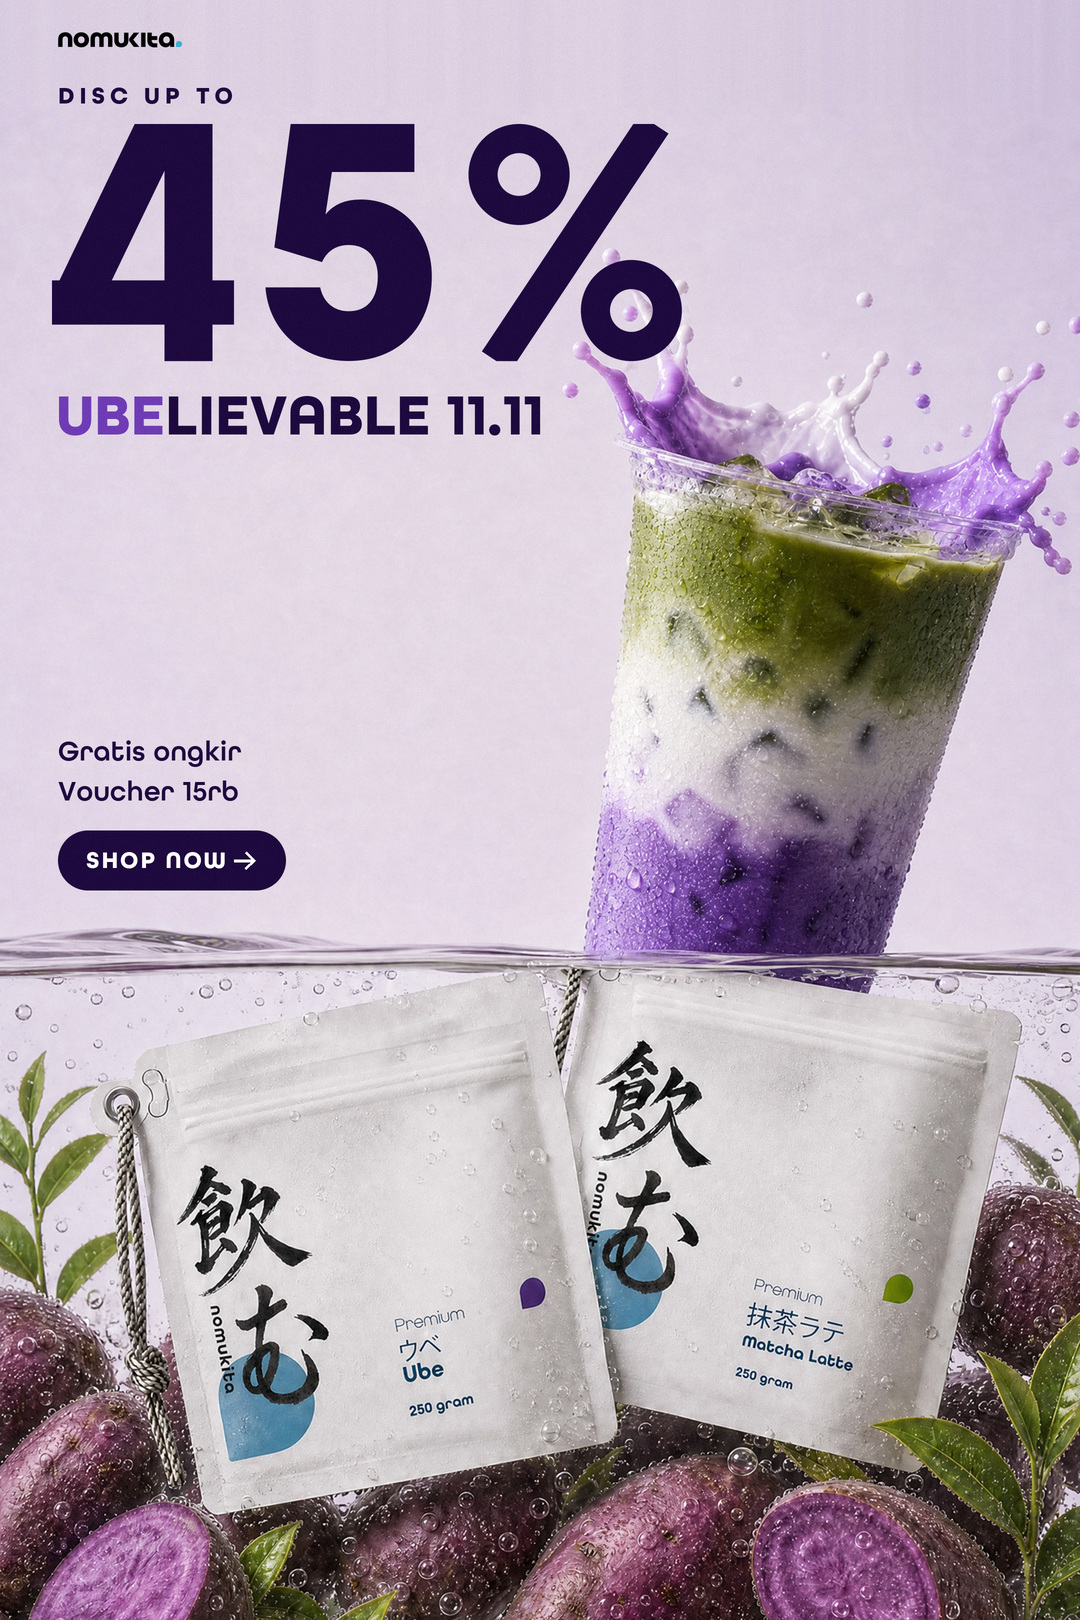
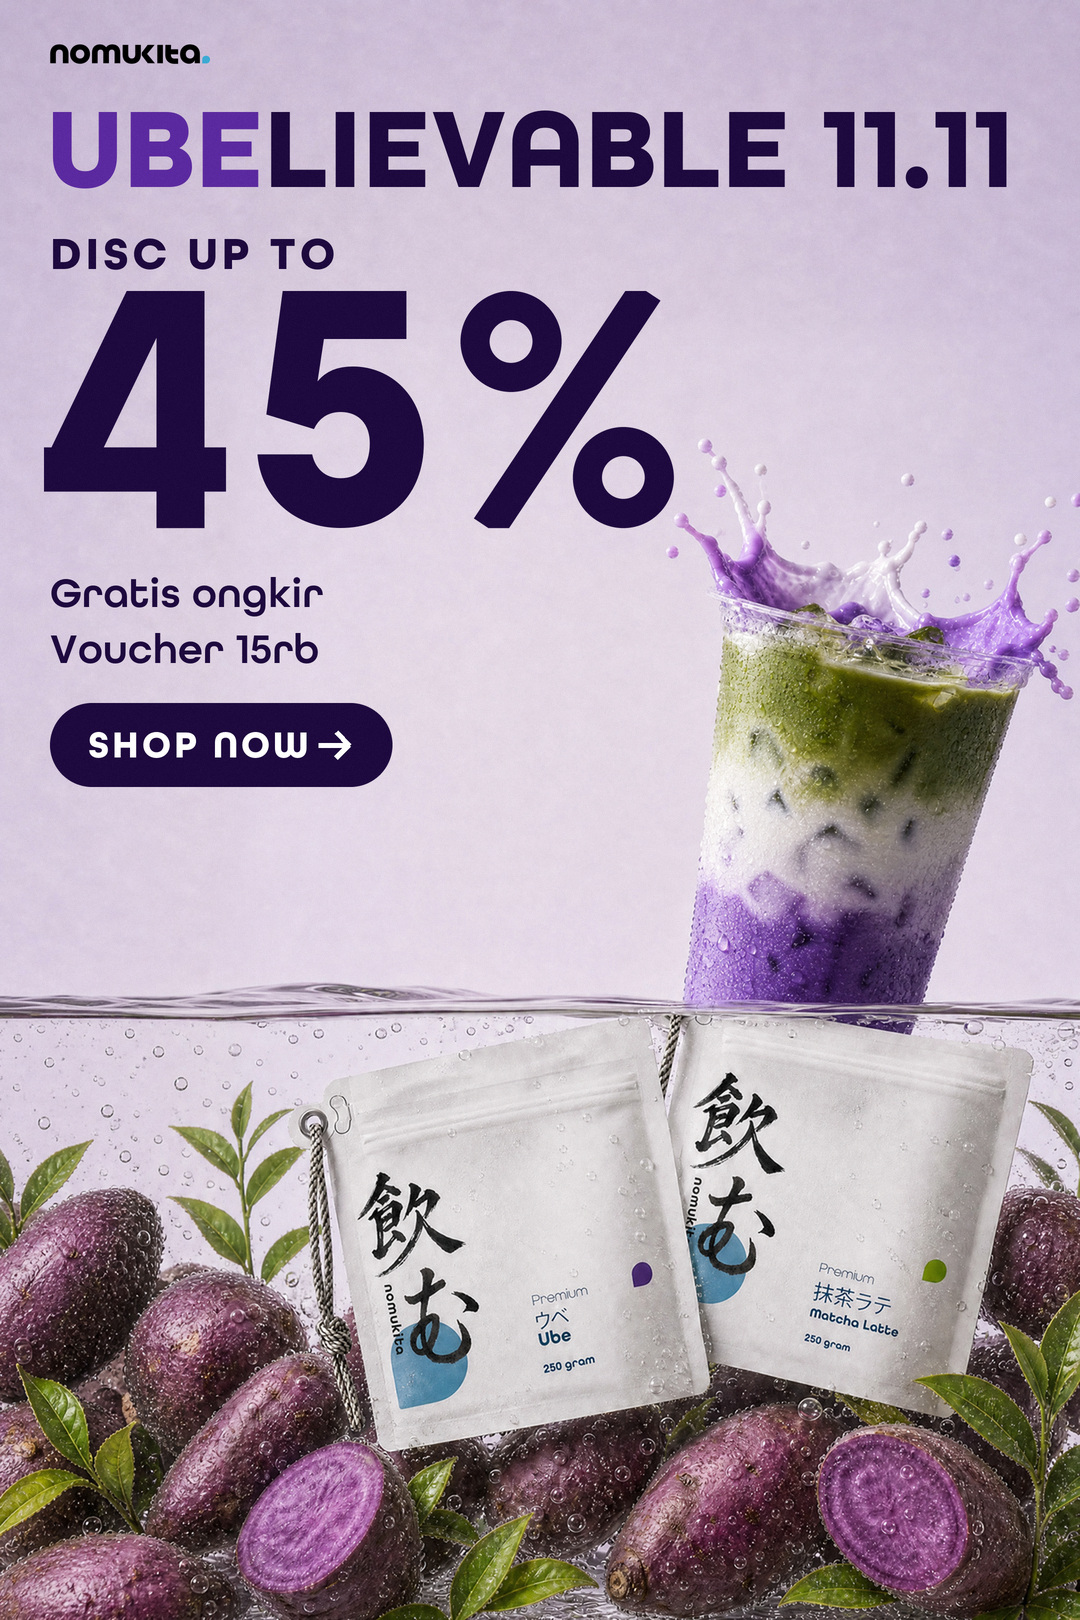
11.11 UBELIEVABLE v3: large app-legible type, full-width header
Claude-Session: https://claude.ai/code/session_01Bv3a5UzTxRJwy8L4VxmgVZ

diff --git a/banners/1111-ubelievable/scripts/compose_1111_v3.py b/banners/1111-ubelievable/scripts/compose_1111_v3.py
@@ -1,0 +1,75 @@
+"""UBELIEVABLE 11.11 store banner, 1080x1620 (same as NOMUVEMBER / himhim7_23).
+Hierarchy: 45% (digit height = 21.94% of width = 237 px) > UBELIEVABLE 11.11 > offers > CTA."""
+import sys, os, json, math
+import numpy as np
+from PIL import Image, ImageDraw, ImageFont
+ROOT = "/tmp/claude-0/-home-user-Dom-Manipulation/cc5b59a6-6b87-5897-882c-ef3d3b14e312/scratchpad"
+sys.path.insert(0, "/home/user/Dom-Manipulation/banners/10.10-ube")
+from compose import vector_45pct, logo_rgba            # '4' and '%' are vectors (locked in the DEMO font)
+FD = ROOT + "/assets/fonts/All Round Gothic/"
+BOLD, DEMI = FD + "Fontspring-DEMO-allroundgothic-bold.otf", FD + "Fontspring-DEMO-allroundgothic-demi.otf"
+CW, CH, K = 1080, 1620, 2
+INK = (30, 10, 62); UBE = (92, 42, 160); WHITE = (255, 255, 255)
+L = json.loads(sys.argv[1]) if len(sys.argv) > 1 else {}
+
+def f(path, size): return ImageFont.truetype(path, int(round(size * K)))
+def text(cv, x, y, s, fnt, tr=0, fill=INK, align="left"):
+    """y = top of caps (design px); returns width in design px."""
+    d = ImageDraw.Draw(cv); w = sum(fnt.getlength(c) for c in s) + tr * K * (len(s) - 1)
+    X = x * K - (w / 2 if align == "center" else w if align == "right" else 0)
+    top = fnt.getbbox("H")[1]
+    for c in s:
+        d.text((X, y * K - top), c, font=fnt, fill=fill); X += fnt.getlength(c) + tr * K
+    return w / K
+def cap(fnt): b = fnt.getbbox("H"); return (b[3] - b[1]) / K
+
+# ---- backdrop: scene zoomed to 80% and outpainted on the left (scene_zoom_final.png) ----
+bg = Image.open(ROOT + "/d1111/" + L.get("scene", "scene_zoom_final.png")).convert("RGB")
+bg.save(ROOT + "/d1111/bg_1111.png")
+cv = bg.resize((CW * K, CH * K), Image.LANCZOS).convert("RGBA")
+
+# ---- typography: one left axis; smallest text >= 38 px (about 12 pt on a 360 pt wide phone) ----
+x = L.get("x", 50)
+lg = logo_rgba(ROOT + "/assets/logo01.jpg"); lw = L.get("logo_w", 160) * K
+lg = lg.resize((int(lw), int(lg.height * lw / lg.width)), Image.LANCZOS)
+cv.alpha_composite(lg, (int(x * K), int(L.get("logo_y", 44) * K)))
+# header: UBELIEVABLE 11.11 across the full width
+fh = f(BOLD, L.get("head", 115)); hy = L.get("head_y", 112)
+wu = text(cv, x - 3, hy, "UBE", fh, 0, UBE)
+wl = text(cv, x - 3 + wu, hy, "LIEVABLE 11.11", fh, 0, INK)
+head_bottom = hy + cap(fh)
+# offer
+fs = f(BOLD, L.get("label", 46))
+dy = head_bottom + L.get("gap_du", 52)
+text(cv, x, dy, "DISC UP TO", fs, L.get("label_tr", 4), INK)
+DIG = 0.2194 * CW
+fb = ImageFont.truetype(BOLD, 100); b5 = fb.getbbox("5"); em = (b5[3] - b5[1]) / 100
+pct, H = vector_45pct(DIG / em * K * L.get("pct_k", 0.99), INK)
+py = dy + cap(fs) + L.get("gap_pct", 22)
+cv.alpha_composite(pct, (int((x - 6) * K), int(py * K)))
+pct_bottom = py + pct.height / K
+# benefits + CTA
+fo = f(DEMI, L.get("body", 42)); oy = pct_bottom + L.get("gap_off", 50); olh = L.get("off_lh", 56)
+text(cv, x, oy, "Gratis ongkir", fo, 0.3); text(cv, x, oy + olh, "Voucher 15rb", fo, 0.3)
+cy = oy + olh + cap(fo) + L.get("gap_cta", 40)
+fc = f(BOLD, L.get("cta", 38)); tw = sum(fc.getlength(c) for c in "SHOP NOW") / K + 7 * 3; h = L.get("cta_h", 84); pad = 38; aw = 30
+w = tw + 2 * pad + aw + 16
+pl = Image.new("RGBA", (int(w * K * 3), int(h * K * 3)), (0, 0, 0, 0))
+ImageDraw.Draw(pl).rounded_rectangle([0, 0, pl.width - 1, pl.height - 1], radius=pl.height / 2, fill=INK + (255,))
+cv.alpha_composite(pl.resize((int(w * K), int(h * K)), Image.LANCZOS), (int(x * K), int(cy * K)))
+text(cv, x + pad, cy + (h - cap(fc)) / 2, "SHOP NOW", fc, 3, WHITE)
+d = ImageDraw.Draw(cv); ax = (x + pad + tw + 10) * K; ay = (cy + h / 2) * K; Lr = aw * K; th = int(5 * K)
+d.line([(ax, ay), (ax + Lr, ay)], fill=WHITE, width=th)
+d.line([(ax + Lr * 0.58, ay - Lr * 0.42), (ax + Lr + 1, ay + 1)], fill=WHITE, width=th)
+d.line([(ax + Lr * 0.58, ay + Lr * 0.42), (ax + Lr + 1, ay - 1)], fill=WHITE, width=th)
+print(f"header right edge {x - 3 + wu + wl:.0f} y {hy}-{head_bottom:.0f} | DISC y {dy:.0f} | 45% y {py:.0f}-{pct_bottom:.0f} right {x - 6 + pct.width / K:.0f} | body {oy:.0f} | cta {cy:.0f}-{cy + h:.0f} w {w:.0f}")
+print("caps px:", {k: round(cap(v)) for k, v in dict(header=fh, label=fs, body=fo, cta=fc).items()})
+
+out = cv.convert("RGB").resize((CW, CH), Image.LANCZOS)
+a = np.asarray(out).astype(np.float32) + np.random.default_rng(11).normal(0, 1.3, (CH, CW, 1))
+out = Image.fromarray(np.clip(a, 0, 255).astype(np.uint8))
+name = L.get("out", ROOT + "/d1111/ubelievable-1111-ube-matcha-latte-1080x1620.jpg")
+for q in (94, 92, 90, 88):
+    out.save(name, quality=q, optimize=True, progressive=True, subsampling=0)
+    if os.path.getsize(name) <= 2_000_000: break
+print("saved", name, out.size, "q", q, os.path.getsize(name), "bytes")

diff --git a/banners/1111-ubelievable/README.md b/banners/1111-ubelievable/README.md
@@ -10,6 +10,17 @@ Copy
 - Angka 45: tinggi blok 237 px = 21,94% lebar (aturan dari himhim7_23), diukur ulang pada piksel hasil render.
   Font DEMO mengunci "4" dan "%", jadi keduanya digambar sebagai vektor (vector_45pct dari banner 10.10).
 
+Revisi v3: teks besar dan terbaca di aplikasi (scripts/compose_1111_v3.py)
+- Patokan: banner 1080 px tampil sekitar 360-400 pt di Shopee/TikTok (kira-kira 1/3). Teks terkecil dibuat >= 38 px
+  (setara sekitar 12 pt di layar). Tinggi huruf kapital: header 75 px, DISC UP TO 30 px, body 28 px, tombol 25 px.
+- Header UBELIEVABLE 11.11 satu baris selebar banner (font 115, sebelumnya 58); DISC UP TO 46 (sebelumnya 24);
+  Gratis ongkir / Voucher 15rb 42 (sebelumnya 28); tombol SHOP NOW tinggi 84 px.
+- Urutan atas ke bawah pada satu sumbu kiri: logo, header, DISC UP TO, 45% (237 px = 21,94%), manfaat, tombol.
+- Agar muat, scene diperkecil ke 80% dan digeser ke kanan bawah; strip kiri bawah diisi AI (outpaint, 10 kredit),
+  lalu scene asli ditempel kembali di atasnya sehingga pouch dan tulisannya tidak berubah.
+- Kontras terburuk: UBE ~4,9:1, LIEVABLE 11.11 9,9:1, DISC UP TO 10,3:1, 45% 11,0:1, body 11,5:1, tombol 12,5:1.
+- Versi sebelumnya di archive-clean-v1/. Sisa saldo kie.ai 55,69.
+
 Revisi: tipografi clean (scripts/compose_1111_clean.py)
 - Satu sumbu rata kiri (x=58) untuk semua teks; sebelumnya campuran rata tengah (atas) dan rata kiri (tengah).
 - Dua kelompok saja: penawaran (logo, DISC UP TO, 45%, UBELIEVABLE 11.11) di atas, manfaat + tombol di atas garis air.
